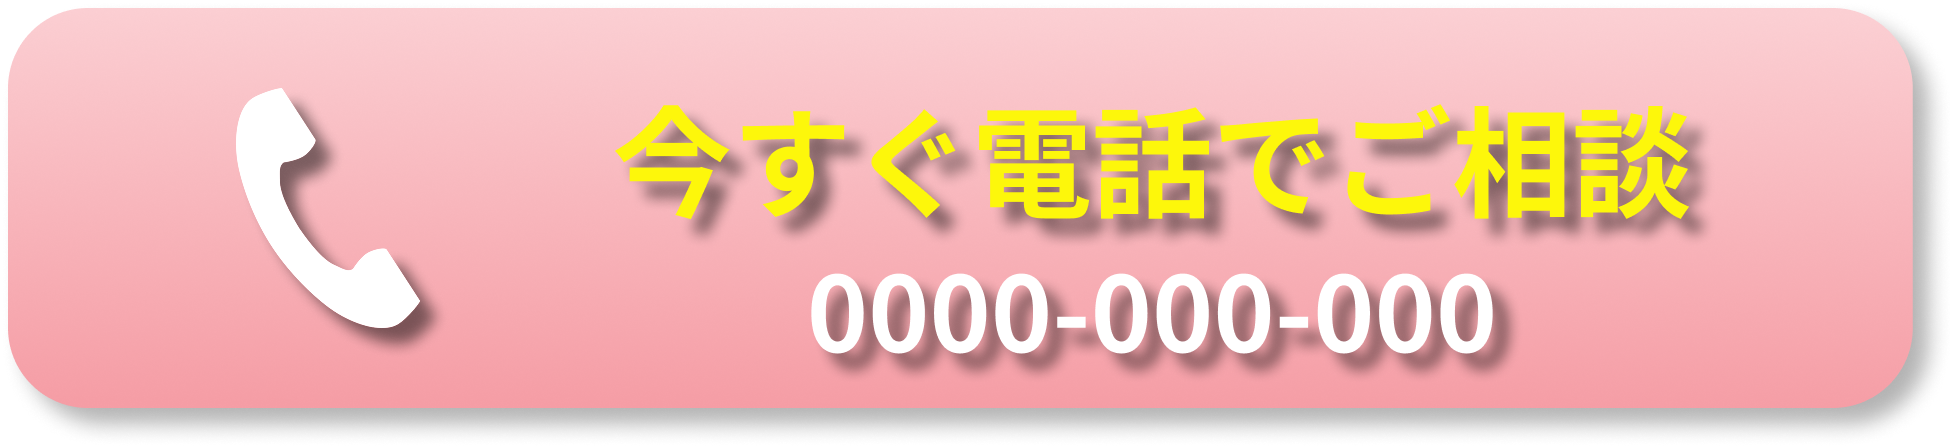
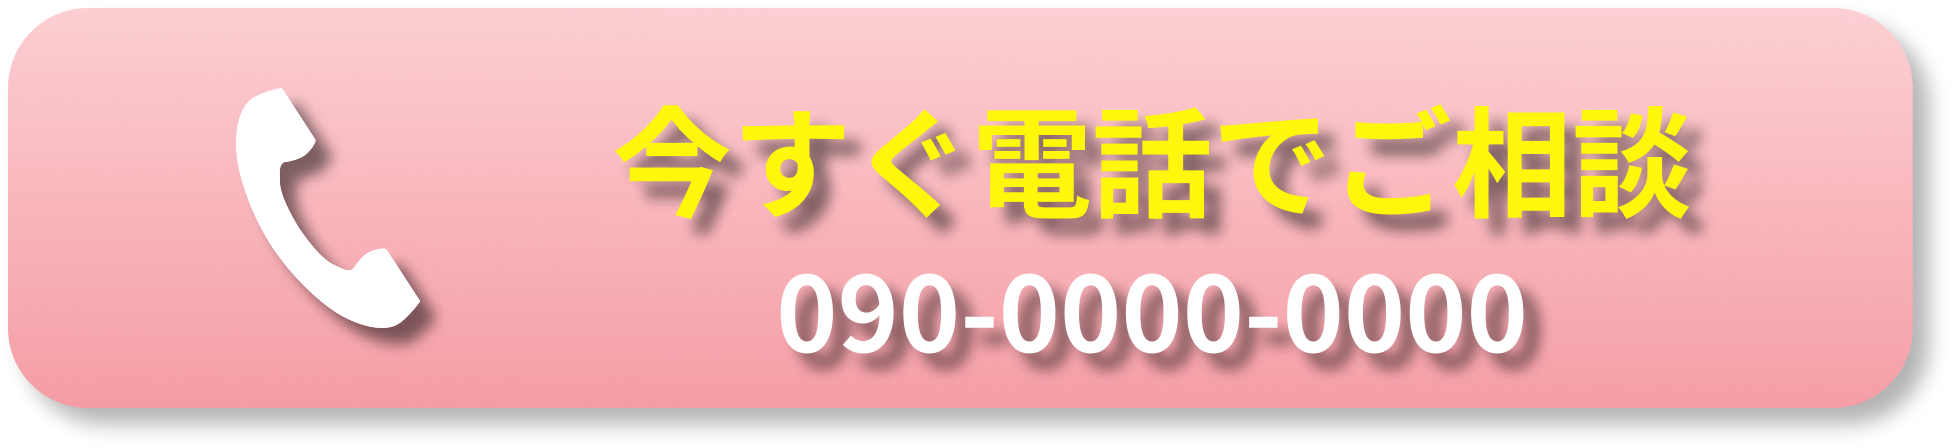
complete

Changed region(s): [[0.3748, 0.5938, 0.8121, 0.8438]]

diff --git a/src/app/page.tsx b/src/app/page.tsx
@@ -6,26 +6,22 @@ import { FAQ } from "@/components/ui/faq";
 export default function Home() {
   return (
     <div>
-      <div className="bg-no-repeat h-screen w-full "
-        style={{ backgroundImage: "url('/images/hero.png')", backgroundSize: 'cover', backgroundPosition: 'center' }}>
-      </div>
-      <div className="">
-        <p className="absolute left-[5vw] top-[250] text-shadow-[4px_4px_4px_#FF84AA] text-7xl font-bold text-white transform-[rotate(-15deg)]">
+      <div className="bg-no-repeat md:h-[calc(100vh-80px)] h-[100vw] w-full bg-[url('/images/hero.png')] bg-cover bg-center">
+        <p className="absolute sm:left-[5vw] left-[3vw] xl:top-[200] lg:top-[190] top-[calc(16vw+80px)] text-shadow-[4px_4px_4px_#FF84AA] xl:text-7xl lg:text-6xl md:text-5xl text-[6vw] font-bold text-white transform-[rotate(-15deg)]">
           未経験者
         </p>
-        <p className="absolute left-[10vw] top-[310] bg-clip-text text-transparent bg-[linear-gradient(95.16deg,_#FF84AA_5.81%,_#FC1FCC_97.87%)] text-9xl font-bold transform-[rotate(-15deg)] filter drop-shadow-[6px_6px_2px_#FFFFFF]">
+        <p className="absolute sm:left-[10vw] left-[7vw] xl:top-[270] lg:top-[250] top-[calc(20vw+80px)] bg-clip-text text-transparent bg-[linear-gradient(95.16deg,_#FF84AA_5.81%,_#FC1FCC_97.87%)] xl:text-9xl lg:text-8xl md:text-7xl text-[11vw] font-bold transform-[rotate(-15deg)] filter drop-shadow-[6px_6px_2px_#FFFFFF]">
           歓迎！
         </p>
         <div
-          style={{ backgroundImage: "url('/images/speech.png')" }}
-          className="absolute right-[2vw] top-[22vw] bg-no-repeat w-[421] h-[161] flex justify-center items-center"
+          className="bg-[url('/images/speech.png')] bg-cover bg-center absolute xl:right-[2vw] lg:right-[1vw] right-0 xl:top-[200] lg:top-[250] md:top-[300] top-[calc(30vw+80px)] bg-no-repeat flex justify-center items-center"
         >
-          <p className="text-3xl text-center text-[#333333] text-shadow-[4px_4px_4px_rgba(0,0,0,0.4)] text-bold">
+          <p className="xl:py-10 xl:px-24 lg:py-8 lg:px-21 md:py-7 md:px-16 sm:py-5 sm:px-12 py-[2.5vw] px-[7vw]  xl:text-3xl lg:text-2xl sm:text-xl text-[3vw] font-bold text-center text-[#333333] text-shadow-[4px_4px_4px_rgba(0,0,0,0.4)] text-bold">
             やってみないと<br />
             わからない！
           </p>
         </div>
-        <p className="absolute top-[85vh] right-[2vw] font-bold text-5xl text-[#FDF70B] text-shadow-[4px_4px_4px_#FF84AA]">
+        <p className="absolute xl:top-[calc(92vh-80px)] lg:top-[calc(94vh-80px)] md:top-[calc(96vh-80px)] top-[100vw] right-[2vw] font-bold xl:text-5xl lg:text-4xl md:text-3xl text-2xl text-[#FDF70B] text-shadow-[4px_4px_4px_#FF84AA]">
           あなたの隠れた才能を<br />
           開花させるのは今です！
         </p>
@@ -126,10 +122,10 @@ export default function Home() {
           公式ライン、またはお電話でお問い合わせください
         </p>
         <div className="flex flex-col md:flex-row items-center justify-center md:gap-5 gap-3 md:pb-15 pb-10 md:px-5 px-10">
-          <a href="https://lin.ee/NfkGrVi" className="follow_side_line">
+          <a href="" className="follow_side_line">
             <img src="images/line_pc.png" alt="line_pc" className="w-[550]" />
           </a>
-          <a href="tel:0120-998-707" className="follow_side_tel">
+          <a href="tel:090-0000-0000" className="follow_side_tel">
             <img src="images/phone_pc.png" alt="phone_pc" className="w-[550]" />
           </a>
         </div>

diff --git a/src/components/footer.tsx b/src/components/footer.tsx
@@ -41,21 +41,21 @@ export function Footer() {
         }`}
     >
       <div className='hidden md:flex justify-center items-center gap-5 px-10'>
-        <Link href="https://lin.ee/NfkGrVi" target="_blank">
+        <Link href="" target="_blank">
           <img src="/images/footer_line_pc.png" alt="footer_line_pc" className="w-[450]" />
         </Link>
-        <Link href="tel:0120998707" target="_blank">
+        <Link href="tel:090-0000-0000" target="_blank">
           <img src="/images/footer_phone_pc.png" alt="footer_phone_pc" className="w-[450]" />
         </Link>
       </div>
       <div className='flex justify-center items-center md:hidden'>
         <div className='flex flex-1 items-center justify-center bg-[#06C755]'>
-          <Link href="https://lin.ee/NfkGrVi" target="_blank">
+          <Link href="" target="_blank">
             <img src="/images/footer_line_sp.png" alt="footer_line_sp" className="w-[15vw] sm:w-[80]" />
           </Link>
         </div>
         <div className='flex flex-1 items-center justify-center bg-[#F59DA5]'>
-          <Link href="tel:0120998707" target="_blank">
+          <Link href="tel:090-0000-0000" target="_blank">
             <img src="/images/footer_phone_sp.png" alt="footer_phone_sp" className="w-[15vw] sm:w-[80] sm:p-4 p-3" />
           </Link>
         </div>
